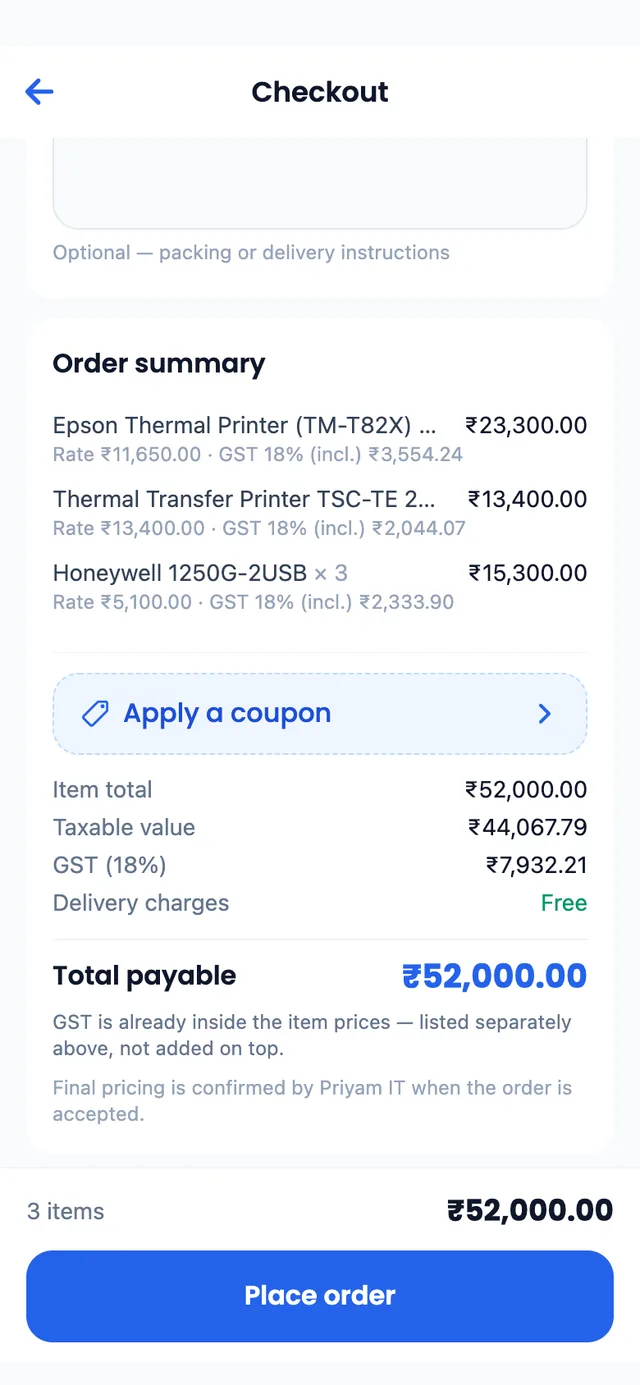
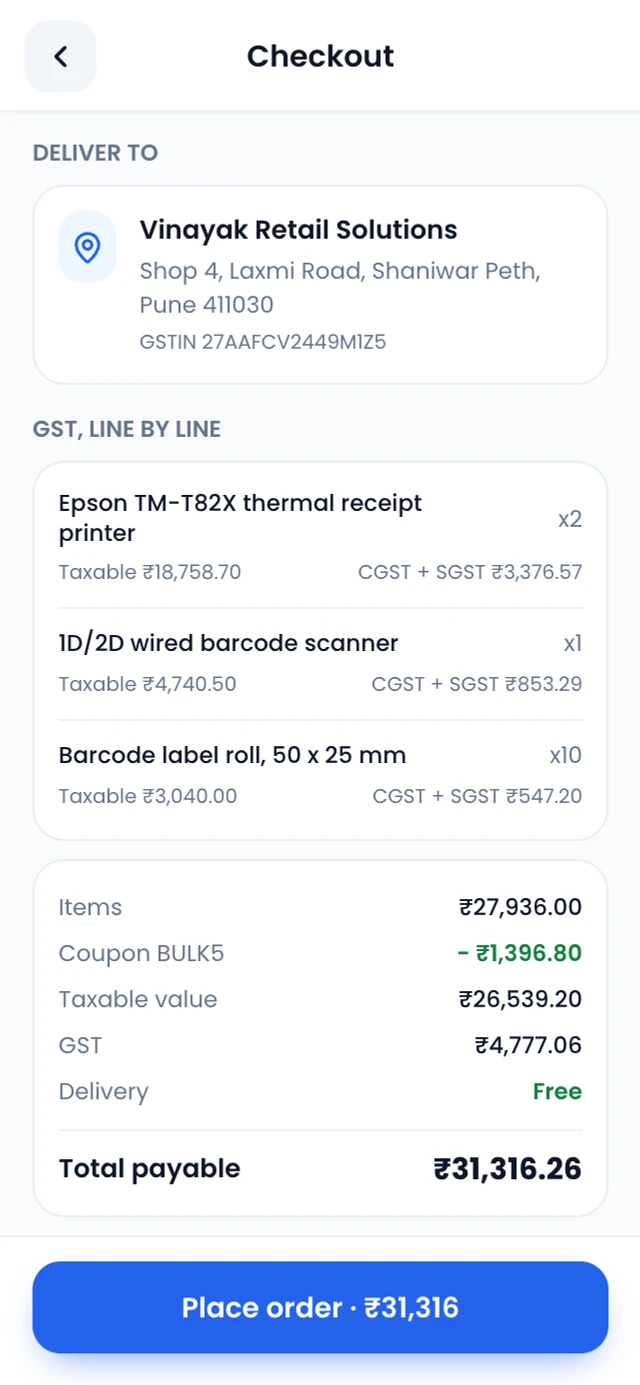
Redraw the Priyam IT app screens
The old phone screenshots had blurry product photos and a lot of empty
space. The nine phone screens are now clean renders of the same flows:
home, search, product, cart, checkout, order placed, my orders,
business verification and the review wait. They use demo data, the
app's blue, and drawn product images, and every total adds up.

diff --git a/src/features/portfolio/data/work.ts b/src/features/portfolio/data/work.ts
@@ -675,8 +675,9 @@ const PRIYAM: Work = {
   shots: [
     {
       src: priyamHome,
-      alt: "Home with search, a banner, categories and best sellers",
-      caption: "Home: search, banners, categories, best sellers.",
+      alt: "Home with the verified business, search, a banner for the customer's own prices, and categories",
+      caption:
+        "Home: a verified account, its own prices, categories. Demo data.",
       device: "phone",
     },
     {
@@ -693,8 +694,8 @@ const PRIYAM: Work = {
     },
     {
       src: priyamCart,
-      alt: "Cart with three items and quantity steppers",
-      caption: "Cart with quantity steppers.",
+      alt: "Cart with three items, quantity steppers, a coupon and the total with GST",
+      caption: "Cart with quantity steppers and a coupon.",
       device: "phone",
     },
     {
@@ -711,8 +712,8 @@ const PRIYAM: Work = {
     },
     {
       src: priyamOrders,
-      alt: "My orders with status chips and GST breakdown",
-      caption: "Order history with status.",
+      alt: "My orders with status chips and the progress of a shipped order",
+      caption: "Order history with status and progress.",
       device: "phone",
     },
     {
